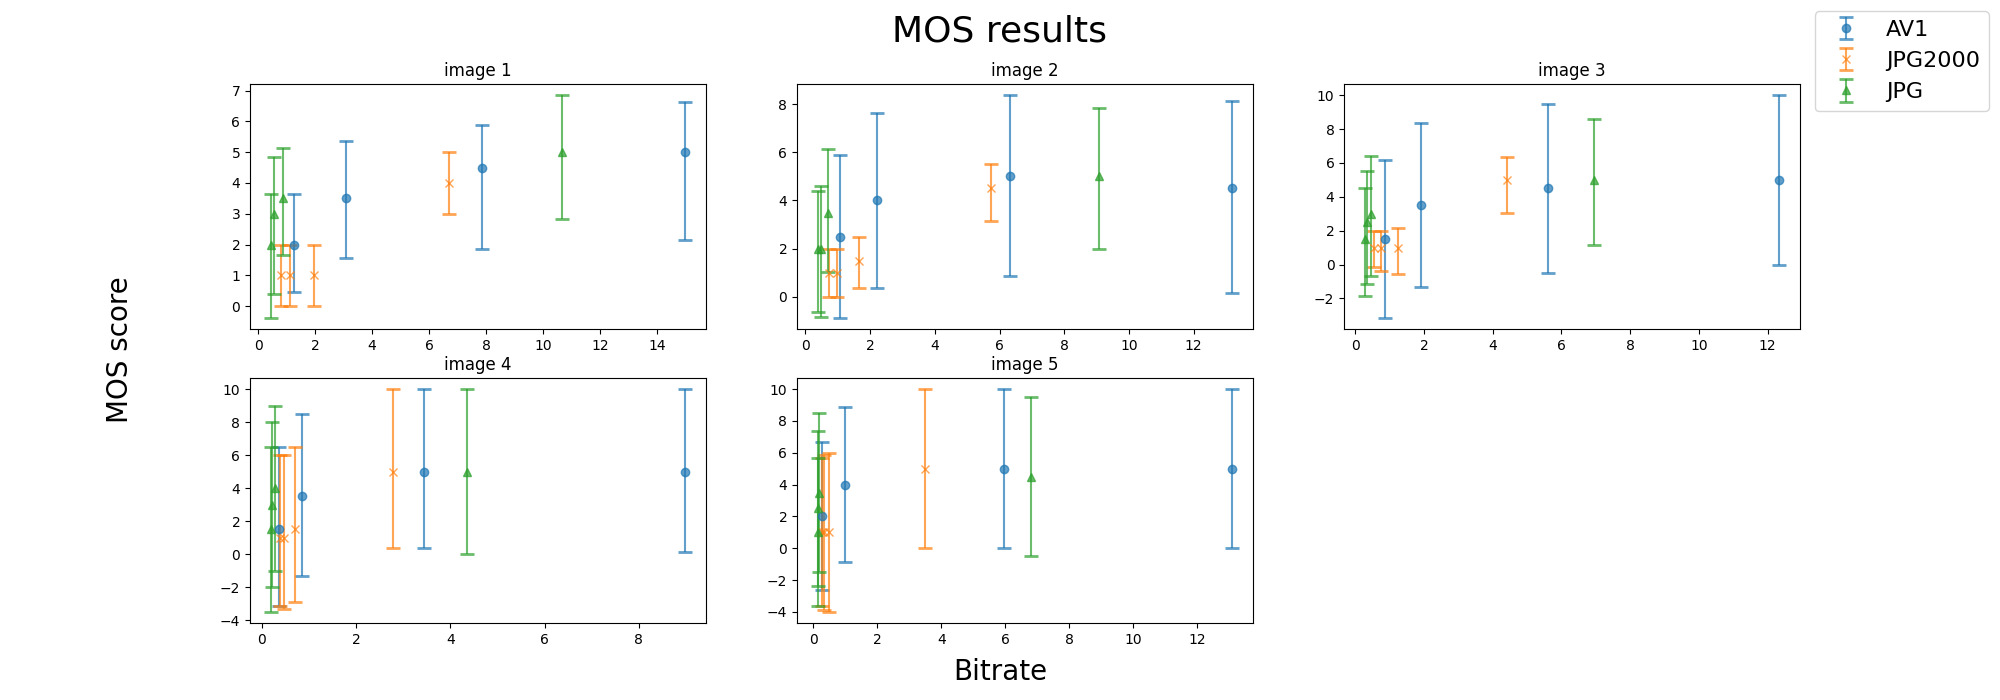
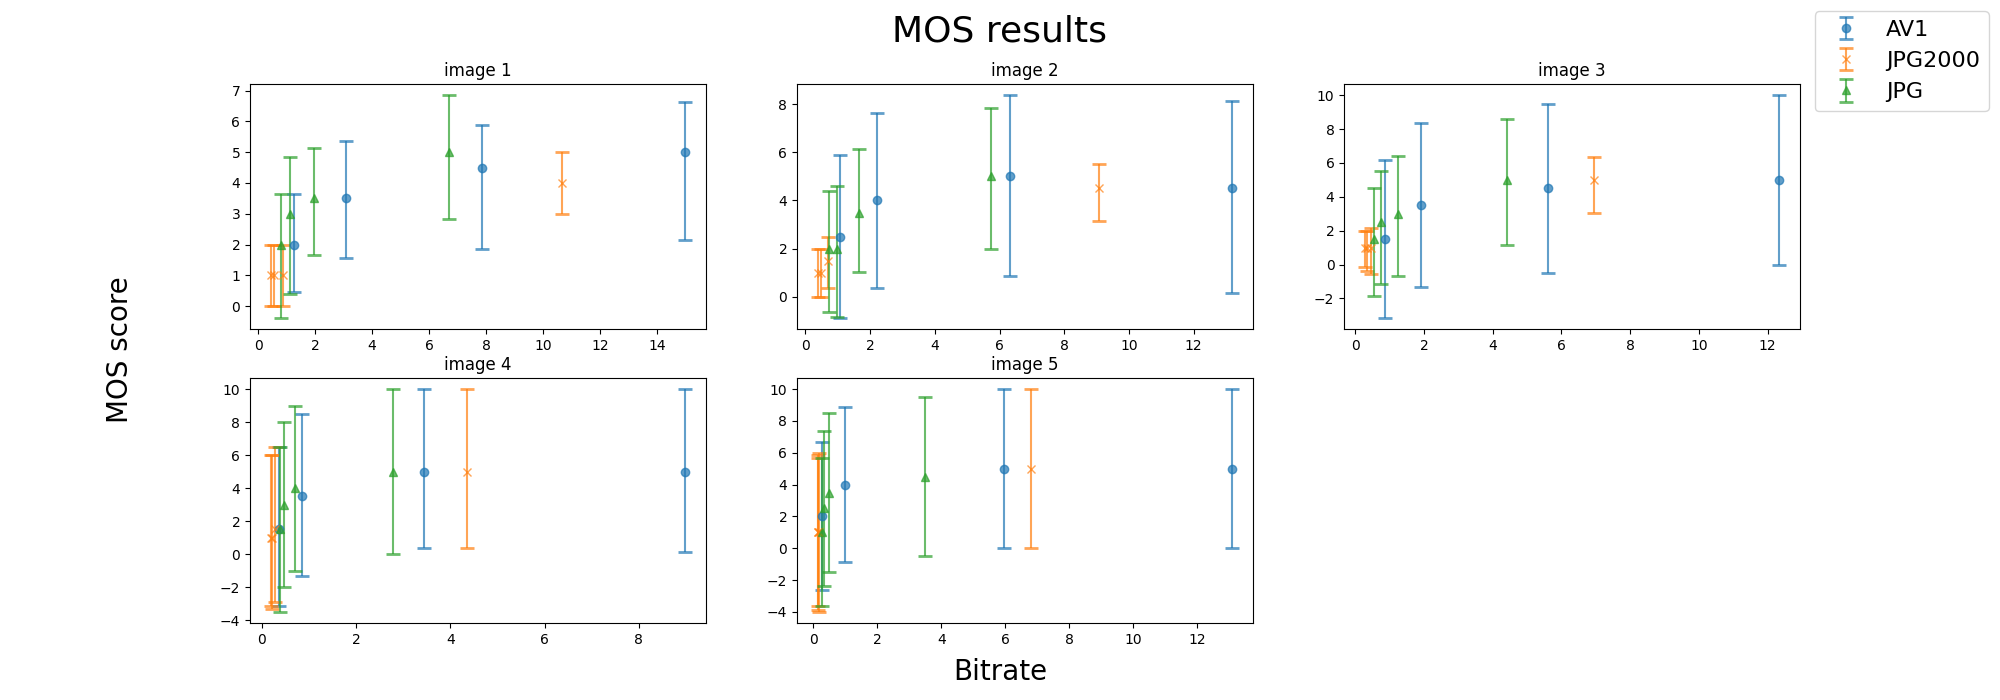
Fixed X-axis bug and updated graphics

diff --git a/generateGraphs.py b/generateGraphs.py
@@ -19,7 +19,7 @@ def create_dir(objective_metrics):
 def get_bpp(img_path):
     resolution = 563000
     size = os.stat(img_path).st_size * 8
-    
+
     return size / resolution
     
 def get_bitrate_values(image_index):
@@ -102,8 +102,9 @@ def create_graph_mos(file_path, results_list, confidence_intervals, codecs):
     fig, axes = plt.subplots(nrows=2, ncols=3, figsize=(20,7))
     for j in range(len(results_list)):
         X = get_bitrate_values(f'Image{j+1}')
+        X = [X[0], X[2], X[1]]
         for i,codec_results in enumerate(results_list[j]):
-            # Plot the results with error bars for the confidence intervals
+            # Plot the results with error bars for the confidence intervals            
             yerr = np.array(confidence_intervals[j][i]).reshape(2, -1)
             if j == 0:
                 axes[0][j].errorbar(X[i], codec_results, yerr=yerr, label=codecs[i], 
